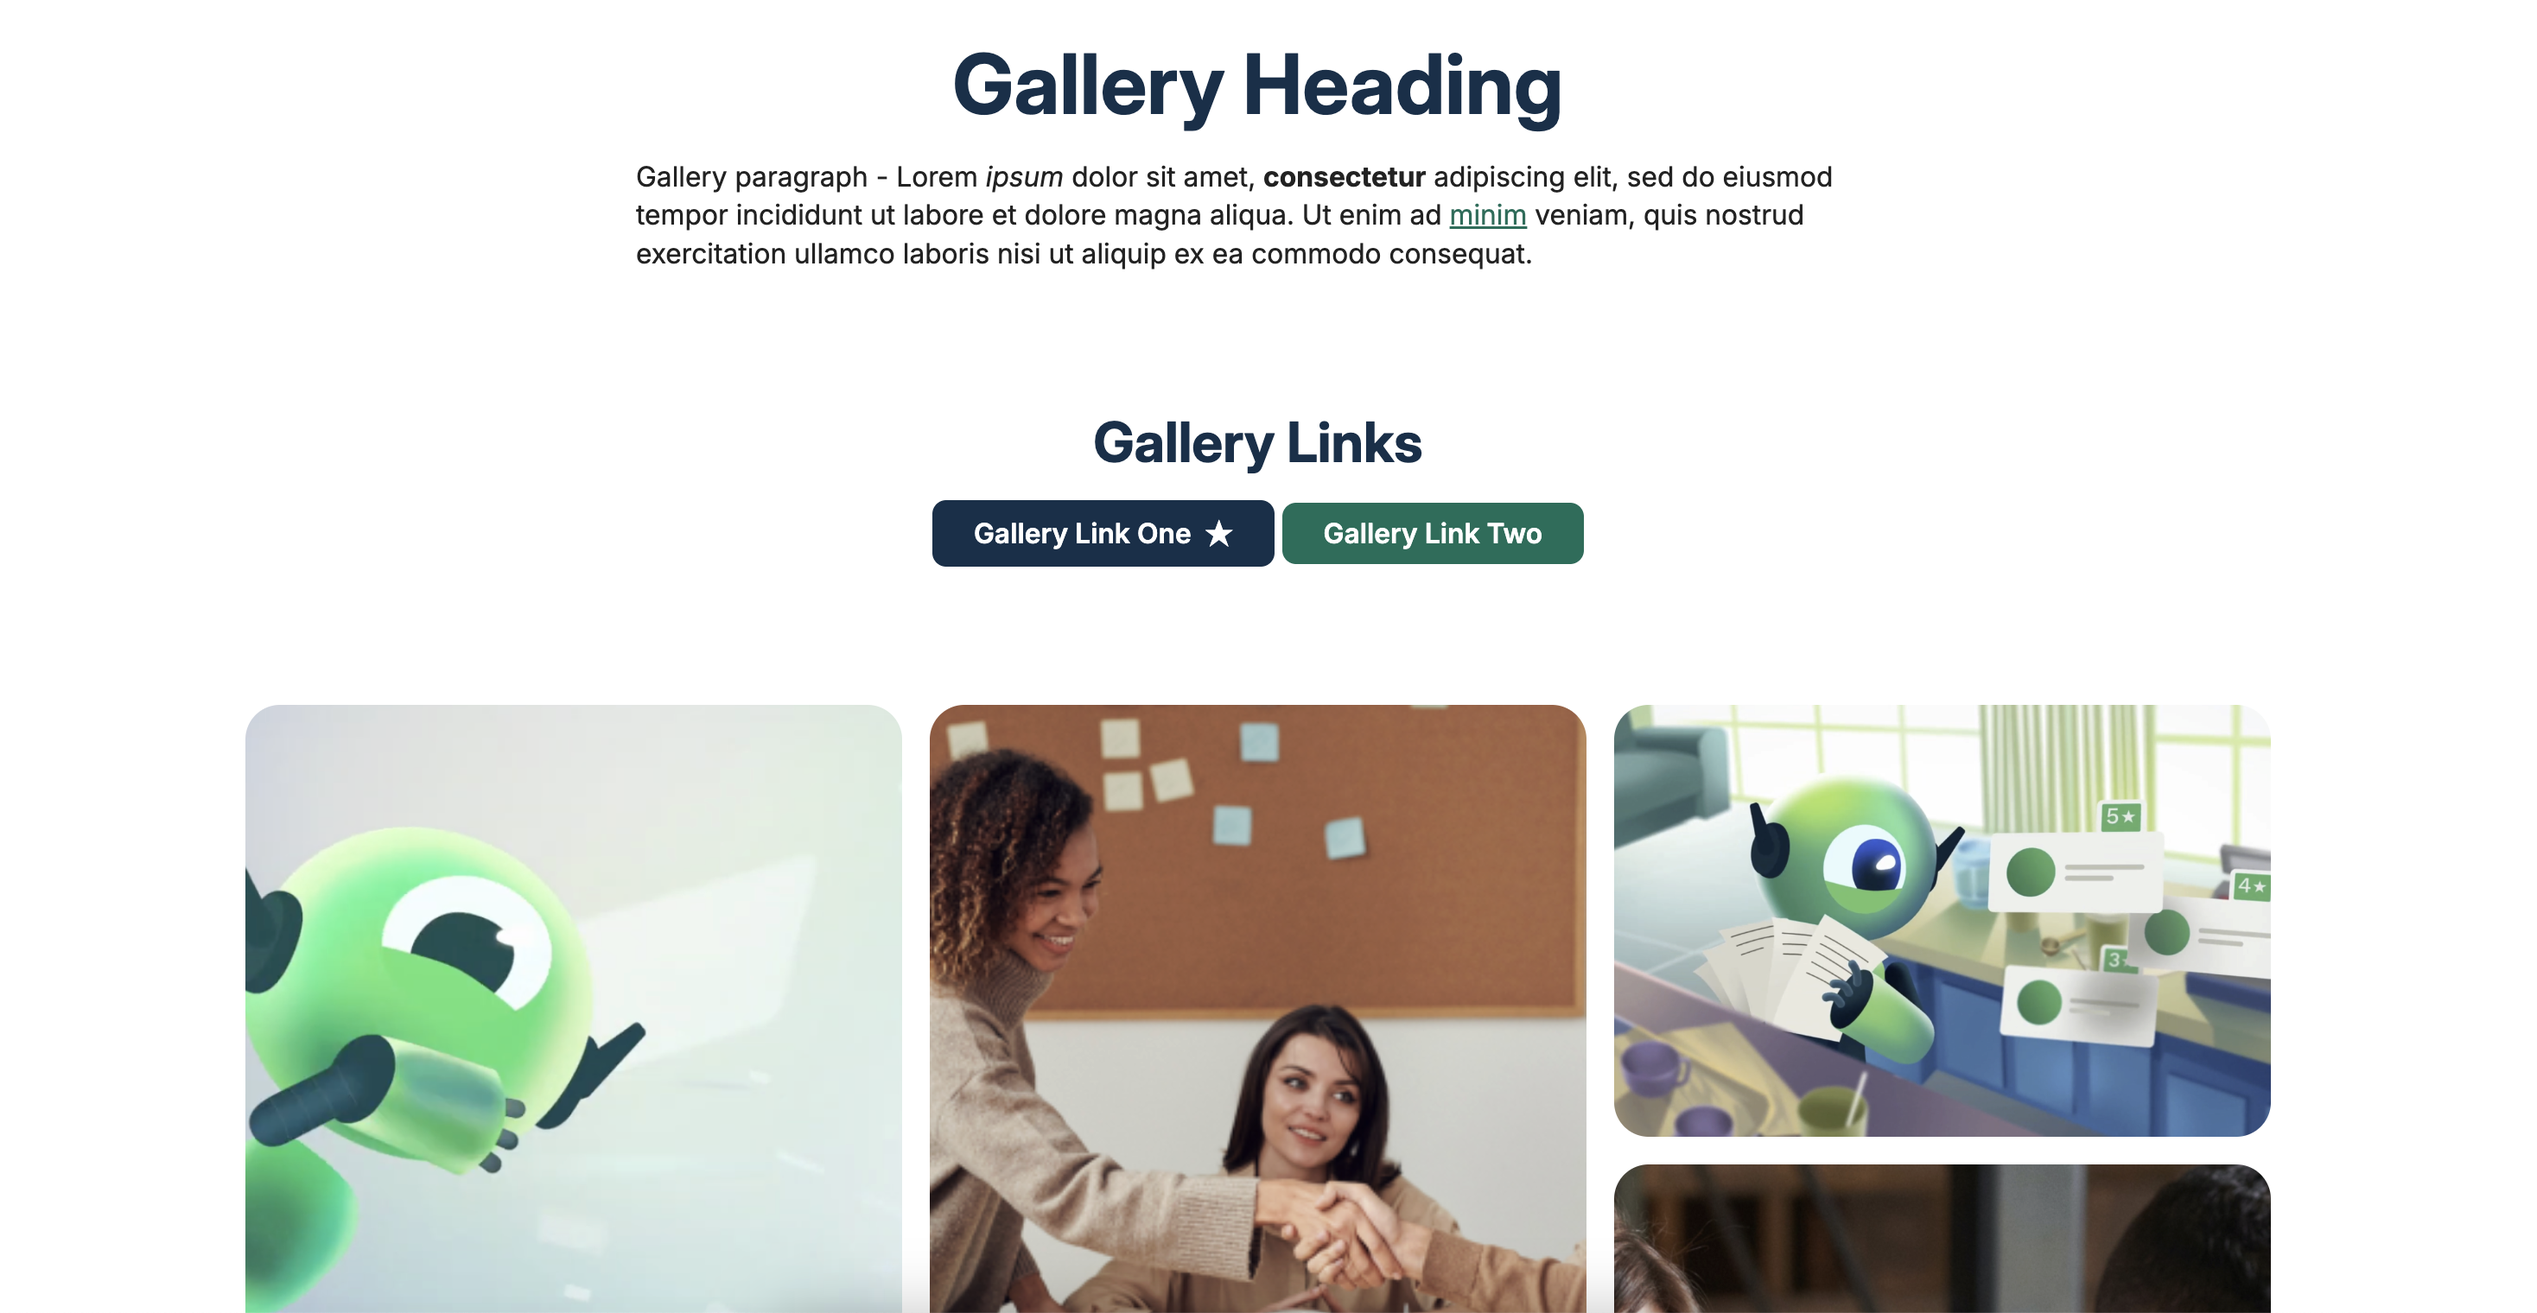
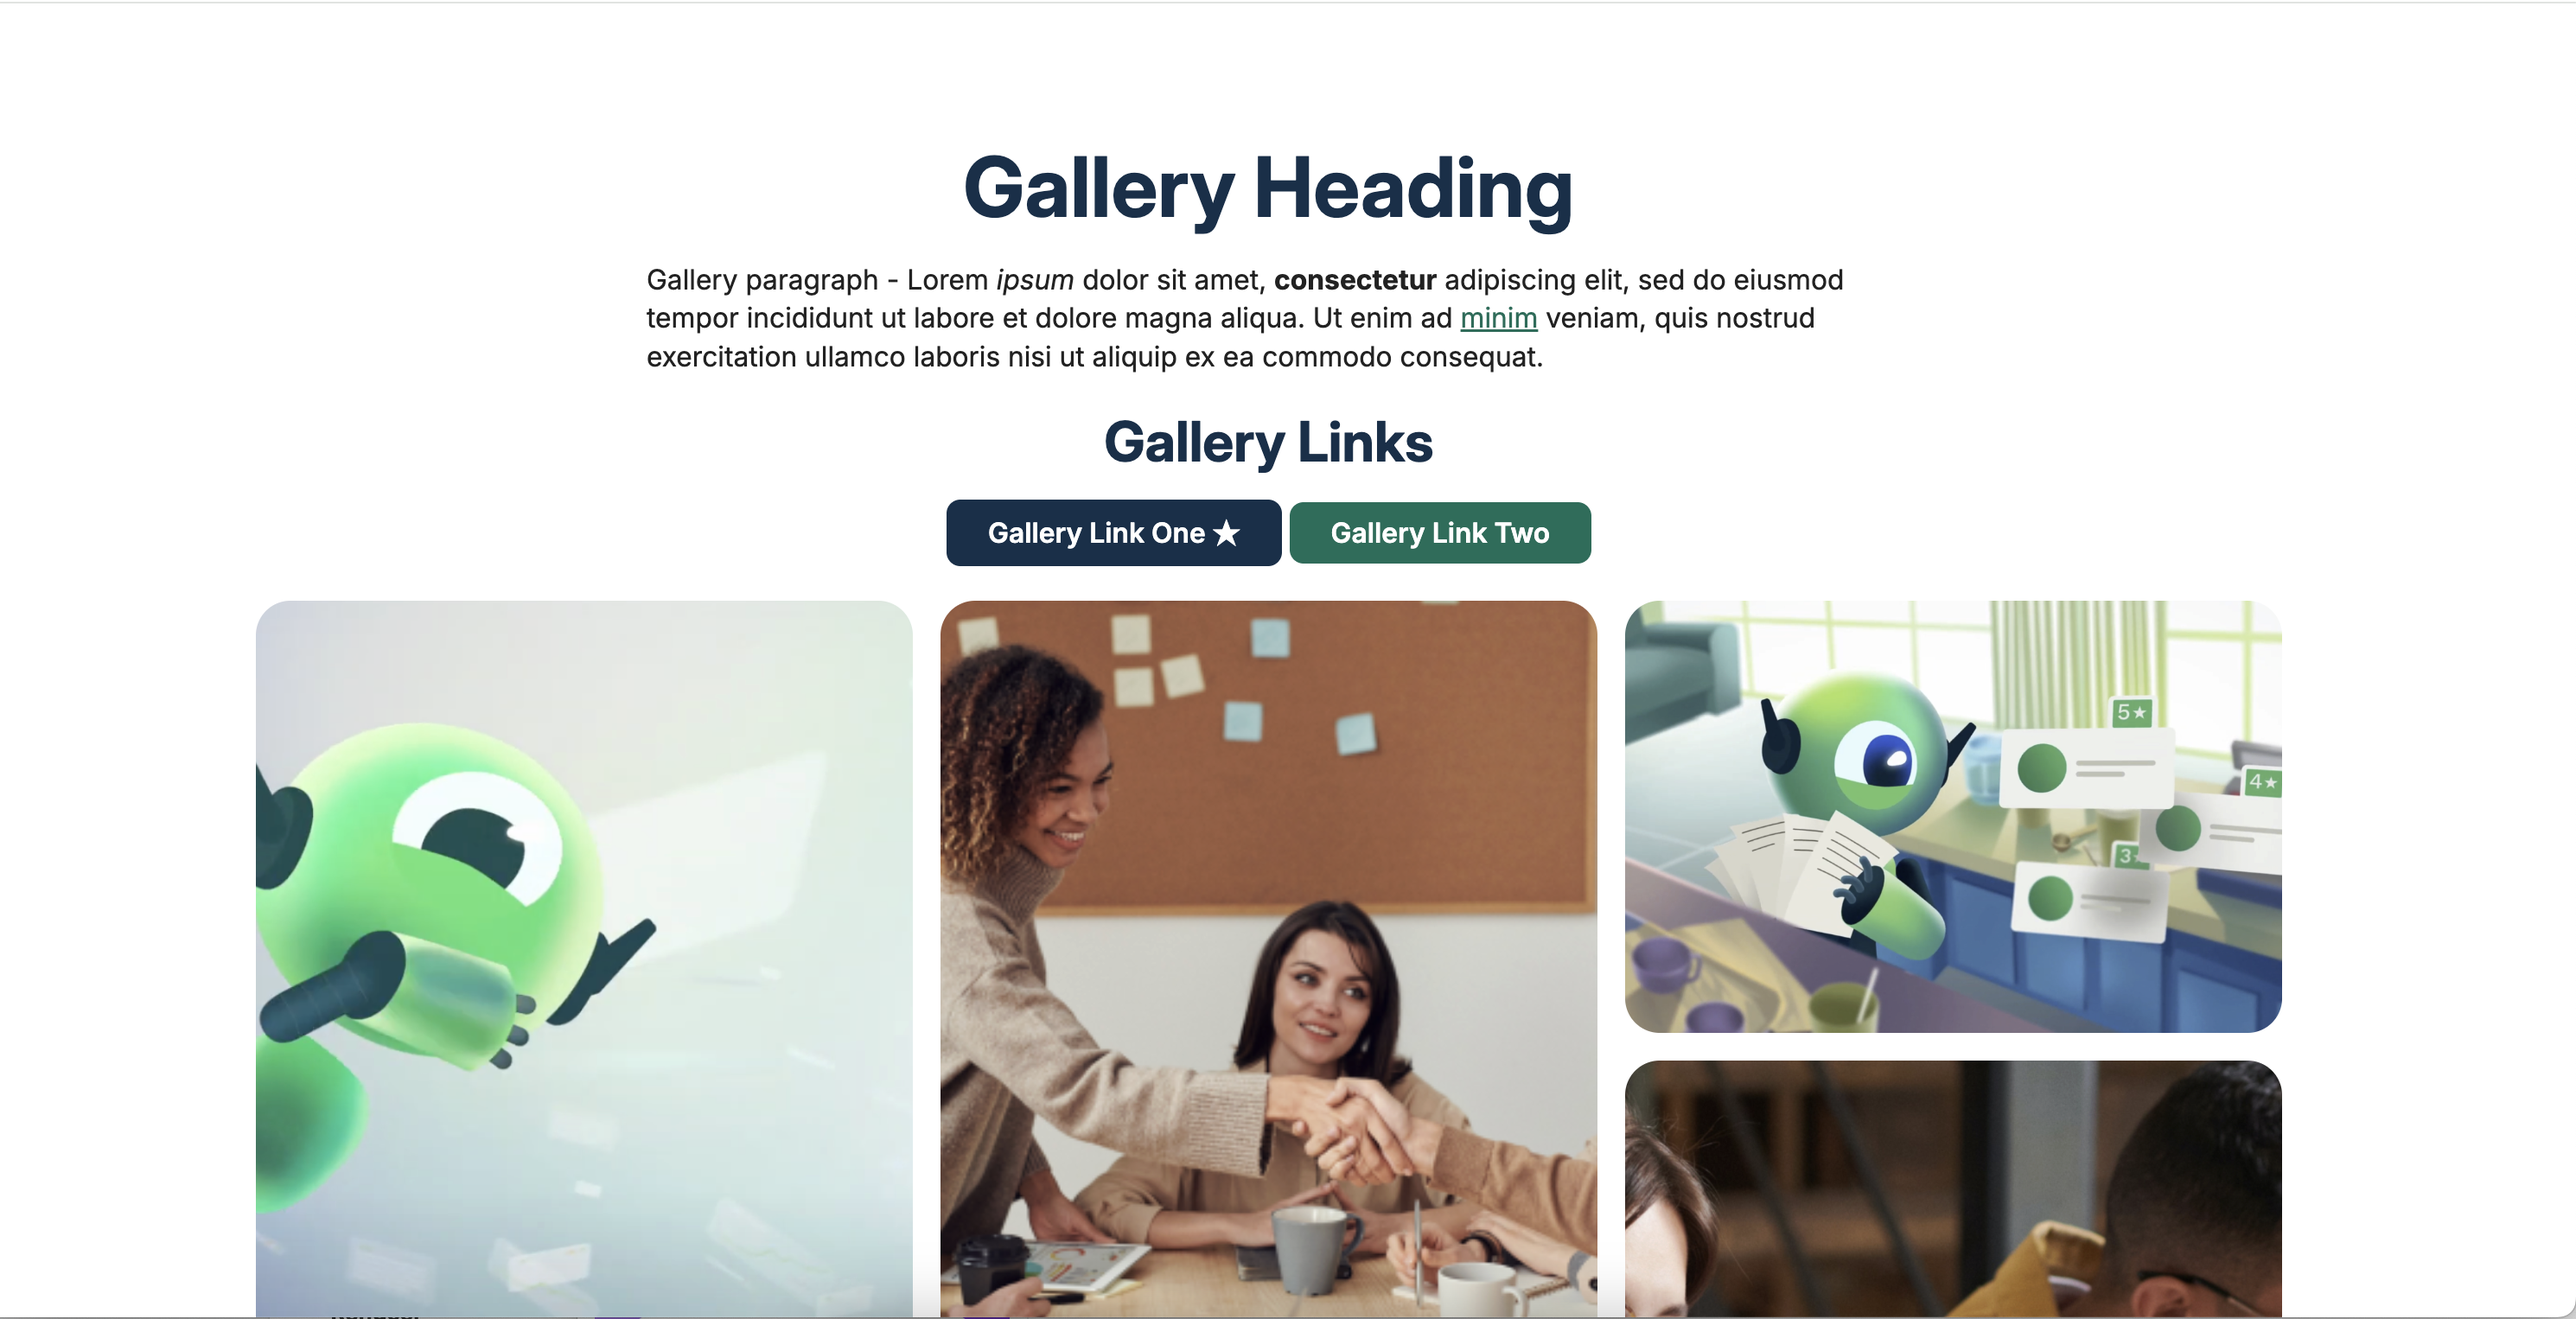
Added padding to prepare the hero as the reference image in figma and refactor footer and video breakpoints.

diff --git a/index.html b/index.html
@@ -35,7 +35,7 @@
             Gallery Link One
             <span aria-hidden="true">★</span>
           </button>
-          <button href="#" class="button button--secondary">
+          <button class="button button--secondary">
             Gallery Link Two
           </button>
         </div>
@@ -48,7 +48,7 @@
         <ul class="gallery" role="list" aria-label="Video gallery">
           <li class="gallery__item">
             <img class="gallery__image" src="img/img-1.png" alt="Green robot character floating" />
-            <button class="gallery__play" aria-label="Play video: Green robot">
+            <button class="gallery__play" aria-label="Play video: Green robot" data-testid="open-modal-btn">
               <svg width="48" height="48" viewBox="0 0 48 48" fill="none">
                 <circle cx="24" cy="24" r="24" fill="rgba(0,0,0,0.5)" />
                 <path d="M20 16l12 8-12 8V16z" fill="white" />
@@ -95,19 +95,17 @@
               </svg>
             </button>
           </li>
-
-          <li class="gallery__item">
-            <footer>
-              <p class="paragraph">
-                <small>
-                  <strong>Gallery media copyright</strong>
-                  - Lorem ipsum dolor sit amet.
-                </small>
-              </p>
-            </footer>
-          </li>
         </ul>
-      </div>
+
+      <footer>
+        <p class="paragraph">
+          <small>
+            <strong>Gallery media copyright</strong>
+            - Lorem ipsum dolor sit amet.
+          </small>
+        </p>
+      </footer>
+    </div>
     </main>
 
     <!-- Modal -->

diff --git a/src/scss/_layout.scss b/src/scss/_layout.scss
@@ -5,12 +5,11 @@
   place-items: center;
   padding: 10px 16px;
 
-
   &--hero {
-    padding-top: 48px;
+    padding-top: 20px;
 
     @media (min-width: $breakpoint-md) {
-      padding-top: 80px;
+      padding-top: 30px;
     }
   }
 
@@ -24,8 +23,16 @@
       justify-items: center;
     }
 
+    @media (min-width: $breakpoint-xl) {
+      max-width: 900px;
+    }
+
     &--wide {
       max-width: 1200px;
+
+      @media (min-width: $breakpoint-xl) {
+        max-width: 1400px;
+      }
     }
   }
 }

diff --git a/src/scss/_modal.scss b/src/scss/_modal.scss
@@ -44,9 +44,15 @@
   }
 
   &__video {
-    aspect-ratio: 16 / 9;
+    // ✅ Móvil: vertical
+    aspect-ratio: 9 / 16;
     border-radius: 12px;
     overflow: hidden;
+
+    // ✅ Desktop: horizontal
+    @media (min-width: $breakpoint-md) {
+    aspect-ratio: 16 / 9;
+   }
   }
 
   &__iframe {
@@ -55,7 +61,7 @@
     border: none;
   }
 
-   &:focus-visible {
+  &:focus-visible {
     outline: 3px solid $white;
     outline-offset: 4px;
   }

diff --git a/src/scss/styles.scss b/src/scss/styles.scss
@@ -16,3 +16,8 @@ body {
   background-color: $white;
   color: $content;
 }
+
+.footer {
+  width: 100%;
+  text-align: right;
+}

diff --git a/src/scss/_variables.scss b/src/scss/_variables.scss
@@ -16,3 +16,5 @@ $danger: #FF4C4C;
 
 // Breakpoints
 $breakpoint-md: 768px;
+$breakpoint-lg: 1024px;
+$breakpoint-xl: 1280px;
